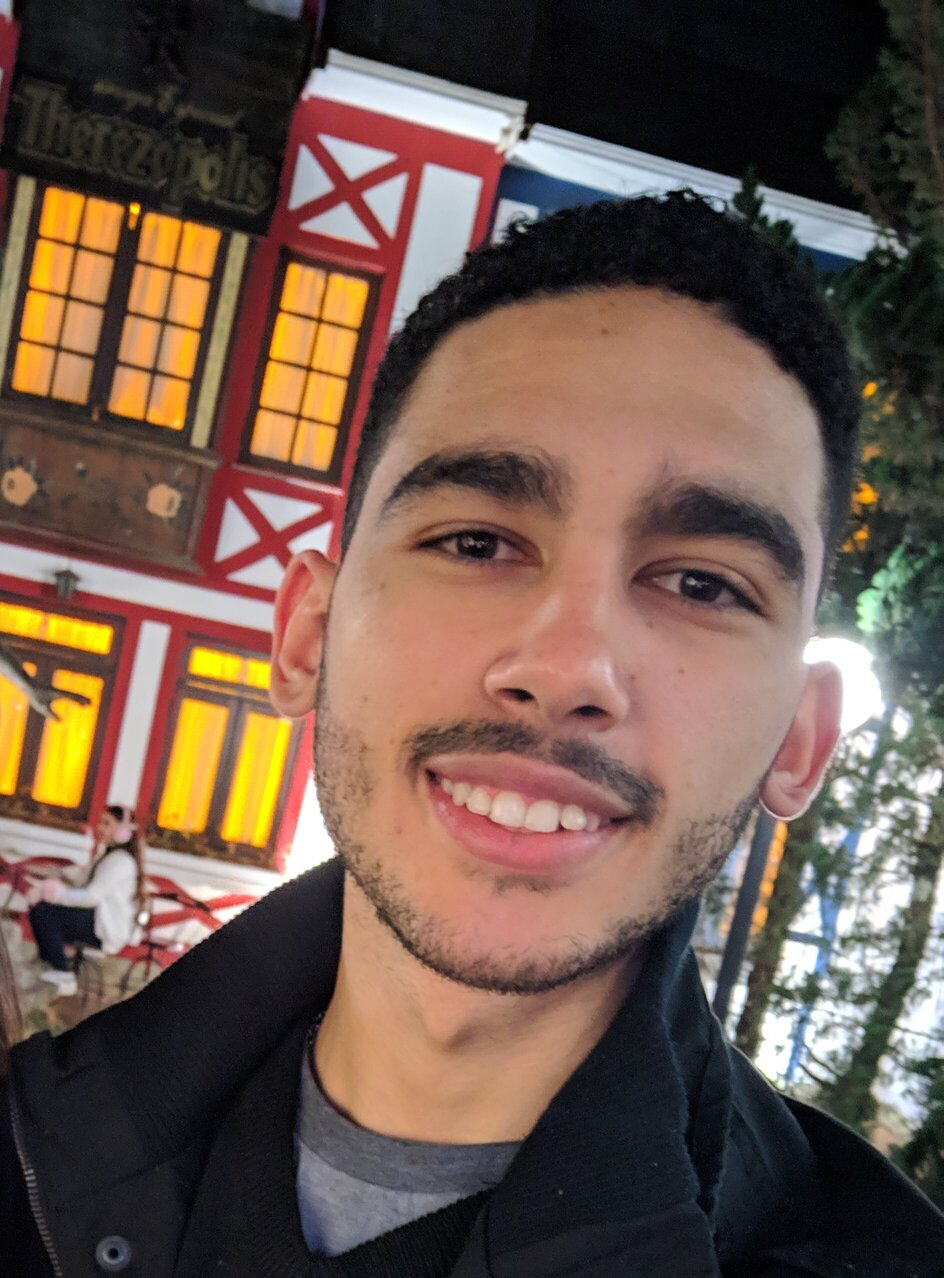
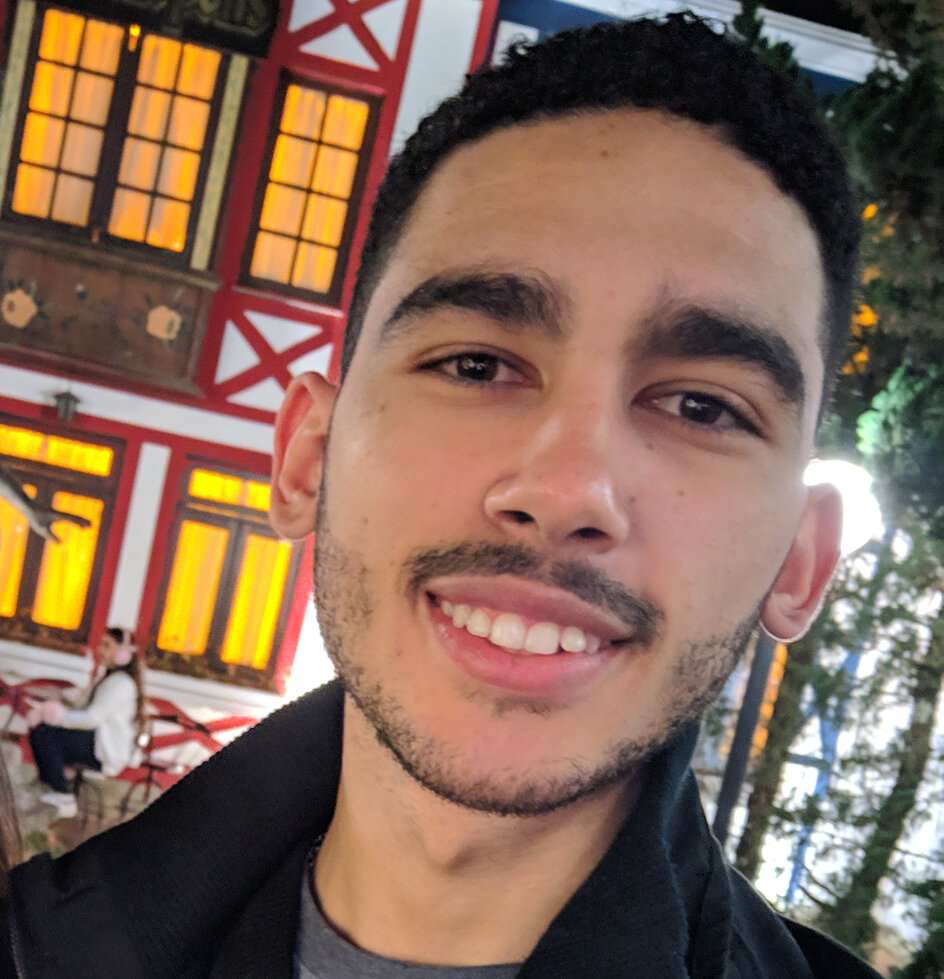
Cumpre requisitos 13 e 14

diff --git a/style.css b/style.css
@@ -5,13 +5,39 @@
 
 body {
   background-color: rgb(253, 251, 251);
+  font-family: sans-serif;
+  line-height: 20px;
+  font-size: 16px;
 }
 
 #cabecalho {
   position: fixed;
   top: 0;
+  background-color: rgb(47, 193, 140);
+  width: 100%;
+  height: 80px;
+}
+
+h1 {
+  margin: 15px 10px;
+  color: bisque;
+}
+
+a {
+  padding: 5px 10px;
+  background-color: azure;
+  border-radius: 3px;
+  text-decoration: none;
+  margin: 5px 0 0 10px;
+}
+
+a:hover {
+  background-color: rgb(110, 241, 193);
 }
 
 #minha_foto {
-  width: 250px;
+  margin: 120px 0 0 15px;
+  width: 300px;
+  border-radius: 50%;
 }
+

diff --git a/index.html b/index.html
@@ -60,9 +60,9 @@
       <p>Quando aprendi Git e GitHub foi um nó na cabeça! Até conseguir aplicar tudo que li, tive que criar, apagar, e recriar muitos repositórios. Mas com certeza o resultado foi recompensador.</p>
     </aside>  
   </main>
-
+<hr>
   <footer id="rodape">
-
+    <p>Criado e editado por Samuel Monteiro Gonçalves, 2021</p>
   </footer>
 </body>
 </html>
